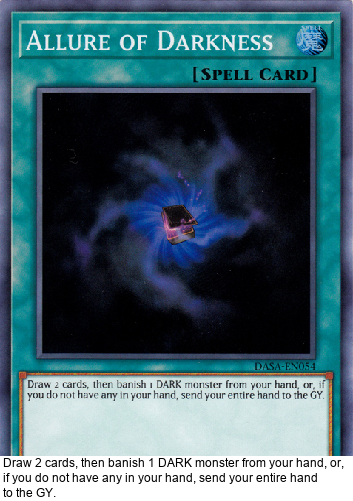
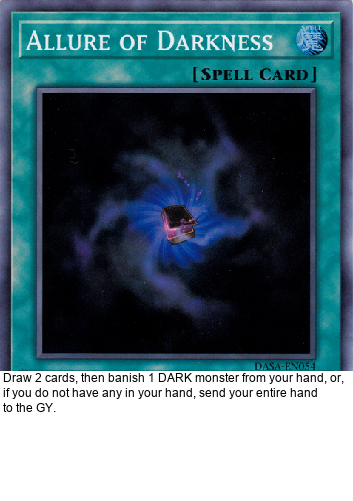
minimum text box height

Changed region(s): [[0.0, 0.7186, 1.0, 1.0]]

diff --git a/pillow/card.py b/pillow/card.py
@@ -27,13 +27,13 @@ def add_text(data, image, output_name):
   draw = ImageDraw.Draw(image)
 
   if (card_type == 'Monster'):
-    box_height = (len(lines))*line_height + 2 * line_height_black
+    box_height = max([(len(lines))*line_height + 2 * line_height_black, 130])
     draw.rectangle([(0, height - box_height), (width, height)], (255, 255, 255))
     draw.text((3, height - box_height), data['types'], font=fnt_black, fill=(0, 0, 0))
     draw.text((3, height - box_height + line_height_black), text_box, font=fnt, fill=(0, 0, 0))
     draw.text((3, height - line_height_black), data['stats'], font=fnt_black, fill=(0, 0, 0))
   else:
-    box_height = (len(lines))*line_height
+    box_height = max([(len(lines))*line_height, 130])
     draw.rectangle([(0, height - box_height), (width, height)], (255, 255, 255))
     draw.text((3, height - box_height), text_box, font=fnt, fill=(0, 0, 0))
   image.save(output_name)
